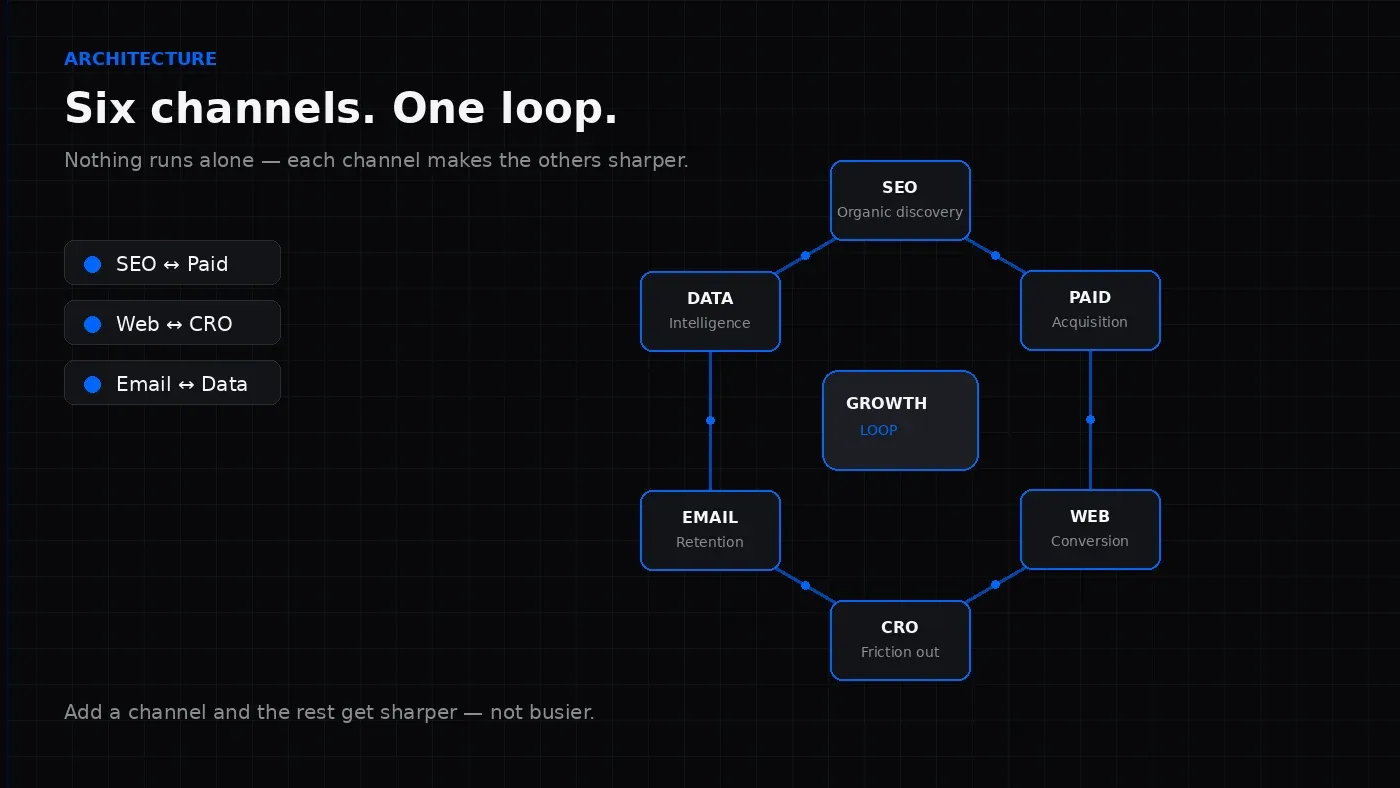
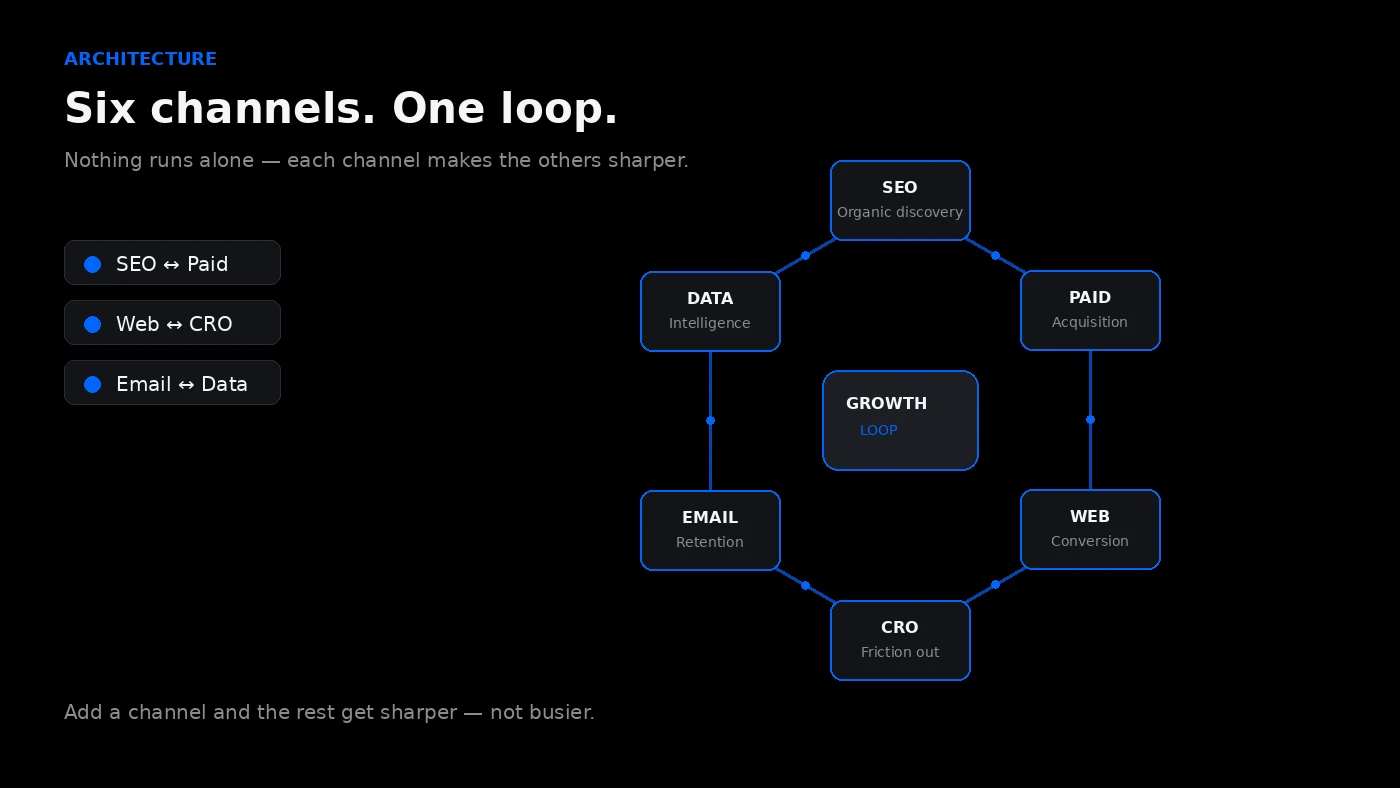
Strip About left accent bar and nested plate fills.
Plates keep brand craft without a left rule; image wells sit on
the same transparent page surface as the rest of the site.

Changed region(s): [[0.0614, 0.0609, 0.1536, 0.0914]]

diff --git a/src/app/[locale]/about/page.tsx b/src/app/[locale]/about/page.tsx
@@ -132,7 +132,7 @@ export default async function AboutPage({ params }: Props) {
             className="about-why__still"
           >
             <Image
-              src="/assets/images/agency/about-system.webp?v=20260930a"
+              src="/assets/images/agency/about-system.webp?v=20260930b"
               alt="Diagram comparing scattered marketing tactics to the connected KINEXIS growth system"
               width={1600}
               height={800}
@@ -273,7 +273,7 @@ export default async function AboutPage({ params }: Props) {
             className="about-arch__plate"
           >
             <Image
-              src="/assets/images/editorial/about-architecture-plate.webp?v=20260930a"
+              src="/assets/images/editorial/about-architecture-plate.webp?v=20260930b"
               alt="KINEXIS growth architecture: six channels connected in one loop — SEO, paid, web, CRO, email, and data"
               width={1400}
               height={788}

diff --git a/src/app/globals.css b/src/app/globals.css
@@ -5535,7 +5535,7 @@ body:has(.cta-section:not(.cta-section--inline)) .site-footer__cta {
   aspect-ratio: 2 / 1;
   border: 0;
   border-radius: 0;
-  background: #08080a;
+  background: transparent;
 }
 
 @media (min-width: 900px) {
@@ -5746,7 +5746,7 @@ body:has(.cta-section:not(.cta-section--inline)) .site-footer__cta {
   aspect-ratio: 1400 / 788;
   border: 0;
   border-radius: 0;
-  background: #08080a;
+  background: transparent;
 }
 
 @media (min-width: 900px) {
